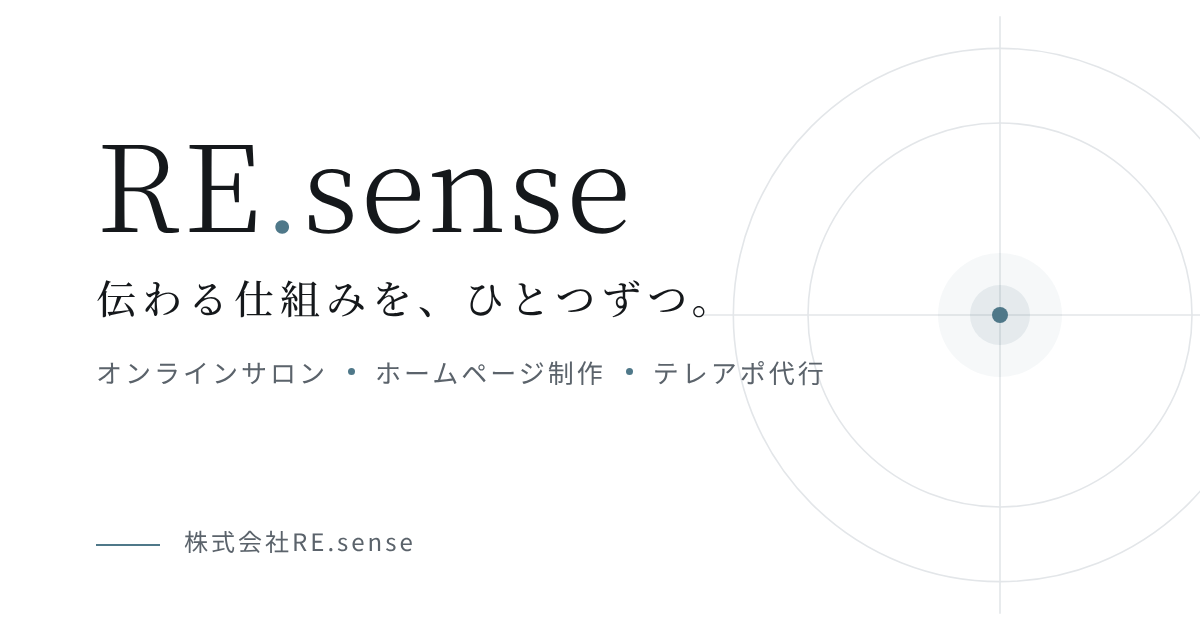
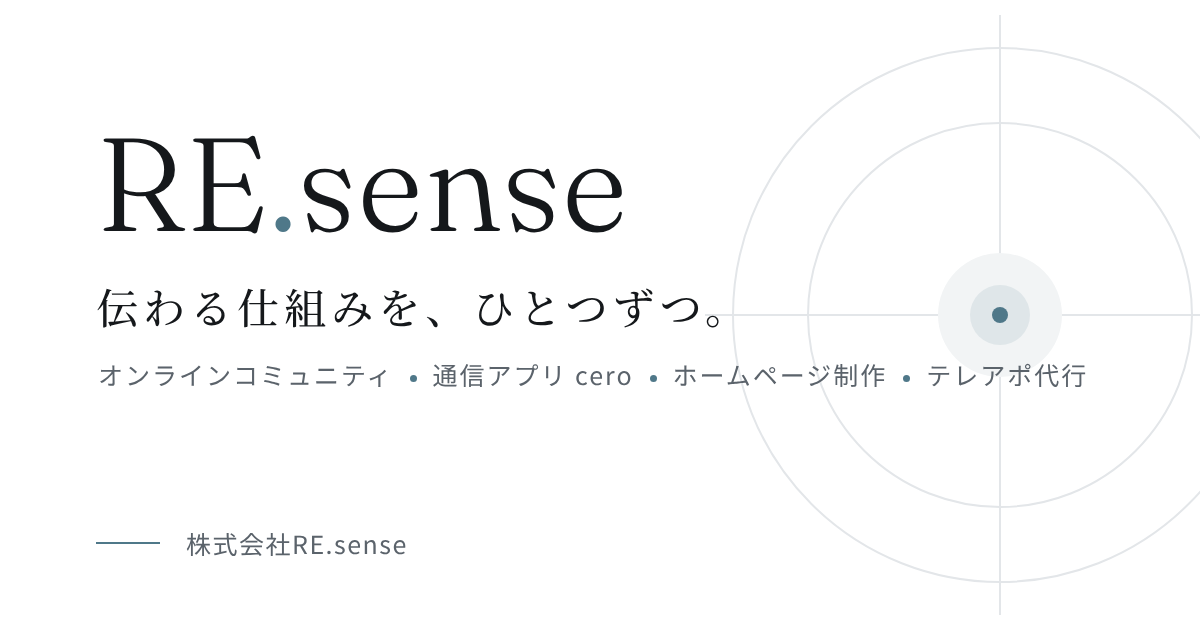
RE.sense：トップの「オンラインサロン」をオンラインコミュニティに直し、ceroを追加 (#6)
* RE.sense：リジェコミュニティ・DFS Collectiveの紹介ページと入会（Stripe）ボタン、規約ページ、問い合わせメールを追加

- トップのサービスに2事業を追加し、「詳しく見る」から各ページへ
- 入会ボタンは site.js の SITE.stripe に Payment Link を入れると決済ページへ（空なら準備中）
- 特商法表記・利用規約・プライバシーポリシー・紹介制度規約を legal/ に追加
- 会社情報を script.js から site.js に分けて全ページ共通に

Claude-Session: https://claude.ai/code/session_011FpAiawnsgZ5s7Qyxf33V2

* STATUS：info@resense-inc.com のメール転送設定が完了

Claude-Session: https://claude.ai/code/session_011FpAiawnsgZ5s7Qyxf33V2

* RE.sense：ceroの紹介ページを追加、リジェの紹介特典はチャンネル作成プラン会員のみと追記

Claude-Session: https://claude.ai/code/session_011FpAiawnsgZ5s7Qyxf33V2

* STATUS：info@ の受信テスト完了

Claude-Session: https://claude.ai/code/session_011FpAiawnsgZ5s7Qyxf33V2

* RE.sense：オンラインサロンのカードを削除、ceroのGoogle Playリンクと提供元の表記を追加

Claude-Session: https://claude.ai/code/session_011FpAiawnsgZ5s7Qyxf33V2

* RE.sense：トップの「オンラインサロン」をオンラインコミュニティに直し、ceroを追加（OGP画像も更新）

Claude-Session: https://claude.ai/code/session_011FpAiawnsgZ5s7Qyxf33V2

---------

diff --git a/sites/re-sense/index.html b/sites/re-sense/index.html
@@ -3,13 +3,13 @@
 <head>
 <meta charset="utf-8">
 <meta name="viewport" content="width=device-width, initial-scale=1, viewport-fit=cover">
-<title>オンラインコミュニティ・ホームページ制作・テレアポ代行｜株式会社RE.sense</title>
-<meta name="description" content="株式会社RE.senseは、オンラインコミュニティ「リジェコミュニティ」「DFS Collective」の運営、ホームページ制作、テレアポ代行で、事業の「届ける」をまとめて支える会社です。ご相談はLINEからお気軽にどうぞ。">
+<title>オンラインコミュニティ・通信アプリcero・ホームページ制作・テレアポ代行｜株式会社RE.sense</title>
+<meta name="description" content="株式会社RE.senseは、オンラインコミュニティ「リジェコミュニティ」「DFS Collective」の運営、通信アプリ「cero」の開発・提供、ホームページ制作、テレアポ代行で、事業の「届ける」をまとめて支える会社です。ご相談はLINEからお気軽にどうぞ。">
 <link rel="canonical" href="https://resense-inc.com/">
 <meta property="og:type" content="website">
 <meta property="og:site_name" content="株式会社RE.sense">
-<meta property="og:title" content="オンラインコミュニティ・ホームページ制作・テレアポ代行｜株式会社RE.sense">
-<meta property="og:description" content="オンラインサロン、ホームページ制作、テレアポ代行。事業の「届ける」をまとめて支えます。ご相談はLINEから。">
+<meta property="og:title" content="オンラインコミュニティ・通信アプリcero・ホームページ制作・テレアポ代行｜株式会社RE.sense">
+<meta property="og:description" content="オンラインコミュニティ、通信アプリ「cero」、ホームページ制作、テレアポ代行。事業の「届ける」をまとめて支えます。ご相談はLINEから。">
 <meta property="og:url" content="https://resense-inc.com/">
 <meta property="og:image" content="https://resense-inc.com/images/ogp.png">
 <meta property="og:image:width" content="1200">
@@ -45,12 +45,12 @@
   <section class="hero" aria-labelledby="hero-title">
     <canvas class="hero-art" id="heroArt" aria-hidden="true"></canvas>
     <div class="wrap hero-in">
-      <p class="eyebrow split" data-split>Online Salon / Web Design / Telemarketing</p>
+      <p class="eyebrow split" data-split>Online Community / Secure Messenger / Web Design / Telemarketing</p>
       <h1 id="hero-title" class="hero-title">
         <span class="ln"><span>伝わる仕組みを、</span></span>
         <span class="ln"><span>ひとつずつ。</span></span>
       </h1>
-      <p class="hero-lead">オンラインサロンの運営、ホームページ制作、テレアポ代行。<br class="pc">事業の「届ける」を、まとめてお手伝いします。</p>
+      <p class="hero-lead">オンラインコミュニティの運営、通信アプリ「cero」、ホームページ制作、テレアポ代行。<br class="pc">事業の「届ける」を、まとめてお手伝いします。</p>
       <div class="hero-cta">
         <a class="btn btn-line" data-site-href="lineUrl" href="https://lin.ee/yh5nDKW" target="_blank" rel="noopener"><span>LINEで相談する</span></a>
         <a class="btn btn-ghost" href="#service"><span>サービスを見る</span></a>
@@ -61,8 +61,8 @@
 
   <div class="marquee" aria-hidden="true">
     <div class="marquee-track">
-      <span>Online Salon</span><span>Web Design</span><span>Telemarketing</span><span>Online Salon</span><span>Web Design</span><span>Telemarketing</span>
-      <span>Online Salon</span><span>Web Design</span><span>Telemarketing</span><span>Online Salon</span><span>Web Design</span><span>Telemarketing</span>
+      <span>Online Community</span><span>Secure Messenger</span><span>Web Design</span><span>Telemarketing</span><span>Online Community</span><span>Secure Messenger</span><span>Web Design</span><span>Telemarketing</span>
+      <span>Online Community</span><span>Secure Messenger</span><span>Web Design</span><span>Telemarketing</span><span>Online Community</span><span>Secure Messenger</span><span>Web Design</span><span>Telemarketing</span>
     </div>
   </div>
 
@@ -73,7 +73,7 @@
         <h2 id="about-title"><span class="nw">知ってもらう、</span><span class="nw">つながる、</span><span class="nw">続けてもらう。</span></h2>
       </div>
       <div class="about-body">
-        <p class="reveal">いいサービスを持っていても、届かなければ選ばれません。RE.senseは、人が集まる場所（オンラインサロン）、見つけてもらう入口（ホームページ）、直接つながる声（テレアポ）の3つで、お客さまとの接点をつくります。</p>
+        <p class="reveal">いいサービスを持っていても、届かなければ選ばれません。RE.senseは、人が集まる場所（オンラインコミュニティ）、安心して話せる道具（通信アプリ「cero」）、見つけてもらう入口（ホームページ）、直接つながる声（テレアポ）で、お客さまとの接点をつくります。</p>
         <p class="reveal">ひとつだけのご相談も、まとめてのご相談も歓迎です。まずは今のお困りごとを、LINEで気軽にお聞かせください。</p>
         <dl class="info reveal">
           <div><dt>会社名</dt><dd data-site="name">株式会社RE.sense</dd></div>
@@ -167,7 +167,7 @@
       <ul class="points">
         <li class="reveal"><h3>相談はLINEで気軽に</h3><p>ご相談からやり取りまで、LINEで完結します。メールでのお問い合わせも受け付けています。</p></li>
         <li class="reveal"><h3>小さく始められる</h3><p>まずはひとつのサービスから。必要に応じて、あとから組み合わせることもできます。</p></li>
-        <li class="reveal"><h3>集客をまとめて相談できる</h3><p>ホームページで見つけてもらい、テレアポで声をかけ、サロンでつながりを深める。入口から継続まで一緒に考えます。</p></li>
+        <li class="reveal"><h3>集客をまとめて相談できる</h3><p>ホームページで見つけてもらい、テレアポで声をかけ、コミュニティでつながりを深める。入口から継続まで一緒に考えます。</p></li>
       </ul>
     </div>
   </section>
